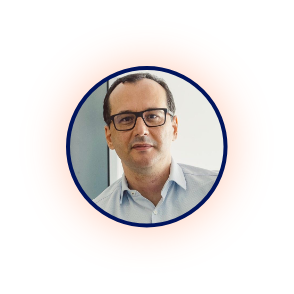
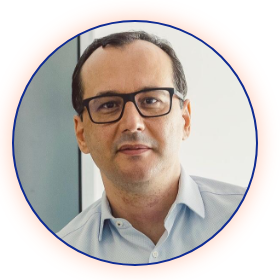
changed profile images

diff --git a/src/components/home/carroussel/styles.js b/src/components/home/carroussel/styles.js
@@ -103,7 +103,7 @@ export const DepositionsSlideCard = styled.div`
     justify-content: flex-end;
     padding: 1.2rem;
     width: ${(props) => (props.focus ? '42%' : '28%')};
-    min-height: ${(props) => (props.focus ? '18rem' : '12rem')};
+    min-height: ${(props) => (props.focus ? '16rem' : '11rem')};
     box-shadow: 0px 0px 22px #00000029;
     border: ${(props) => (props.focus ? '1px solid #00145d' : '1px solid #FFAC2D')};
     border-radius: 12px;
@@ -123,12 +123,12 @@ export const DepositionsSlideCard = styled.div`
 export const Image = styled.img`
     position: absolute;
 
-    width: ${(props) => (props.focus ? '15rem' : '13rem')};
-    top: ${(props) => (props.focus ? '-42%' : '-55%')};
+    width: ${(props) => (props.focus ? '10rem' : '8rem')};
+    top: ${(props) => (props.focus ? '-33%' : '-36%')};
 
     @media (max-width: 1200px) {
-        width: ${(props) => (props.focus ? '12rem' : '10rem')};
-        top: ${(props) => (props.focus ? '-40%' : '-46%')};
+        width: ${(props) => (props.focus ? '9rem' : '7rem')};
+        top: ${(props) => (props.focus ? '-30%' : '-33%')};
     }
 `;
 
